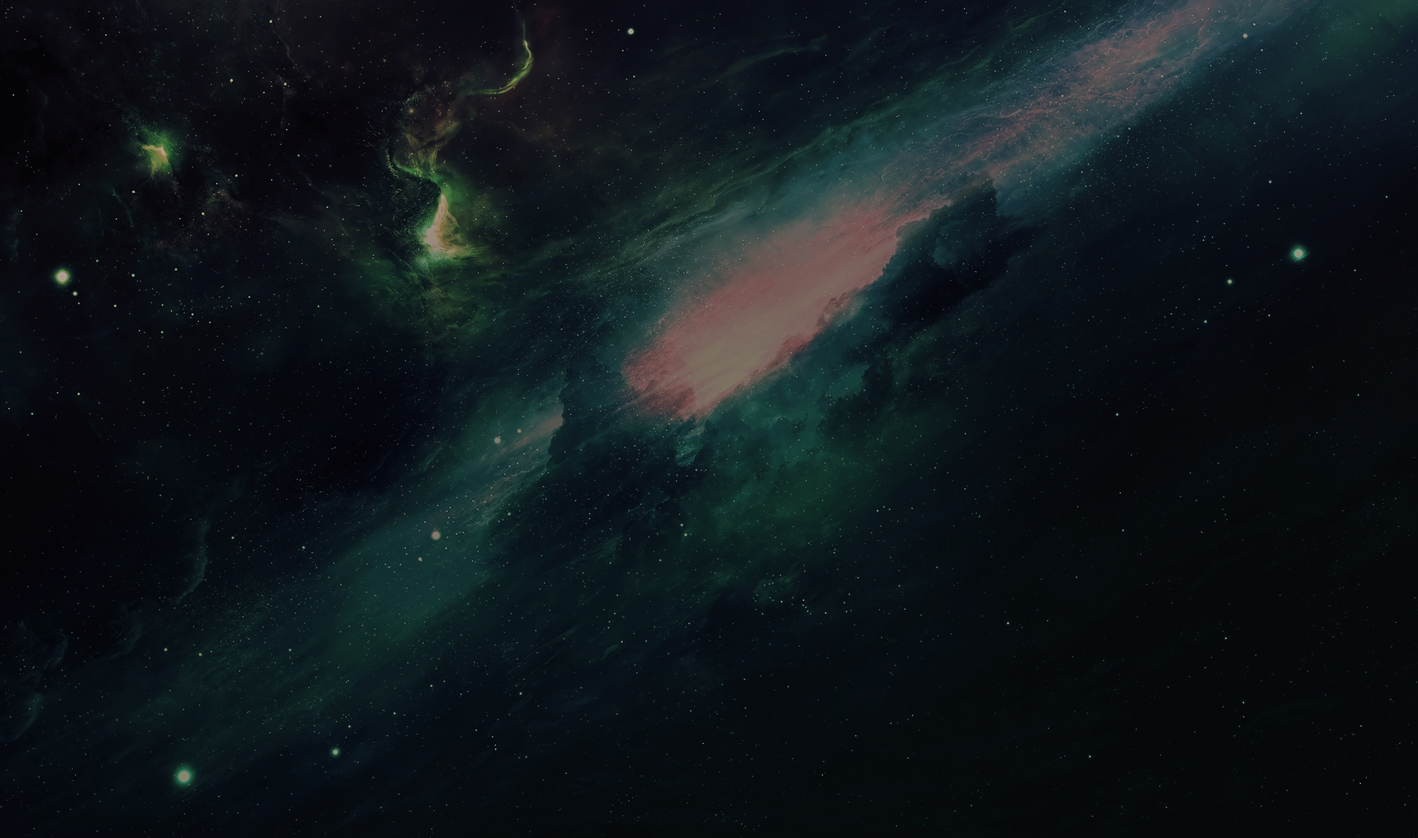
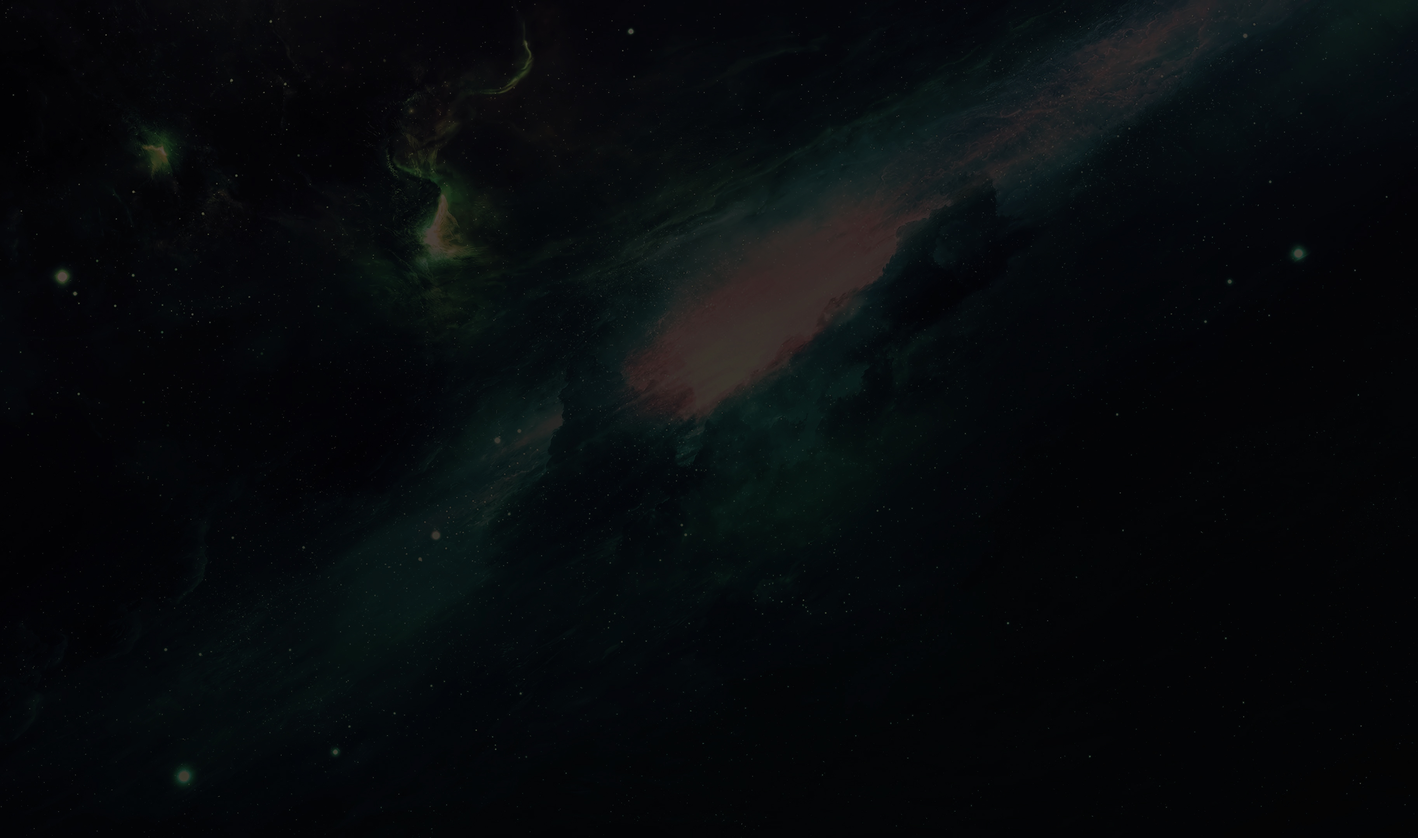
Estilização Página Home
- Adicionada ilustração referente ao herói;

- Estilização de textos e flexbox;

- Ajustes no background;

- Alterando Title Tag;

diff --git a/src/components/Home.vue b/src/components/Home.vue
@@ -3,20 +3,53 @@
   <v-container>
     <Header />
   </v-container>
-  <v-container class="d-flex ga-16">
+
+  <v-container class="d-flex flex-column flex-md-row ga-16">
     <v-container class="d-flex flex-column ga-9">
-      <div class="text-teal-accent-4 text-uppercase text-h4 font-weight-black">A Batalha pelo Mundo Front-End</div>
-      <div style="white-space:;" class="text-white text-justify font-weight-medium">
-        Lucas, o aspirante a herói do Front-End, embarcou em uma jornada desafiadora em busca do conhecimento supremo em Angular, React e Vue.js - os três pilares do reino do desenvolvimento web.<br/>
-        <br/>  
-        Navegando por tutoriais, documentações extensas e projetos práticos, Lucas enfrentou desafios complexos, como integrar componentes reativos e gerenciar estados de forma eficiente. Cada framework representava um teste diferente, mas com sua determinação inabalável, absorveu as nuances de cada um.<br/>
-        <br/>
-        Ao superar os obstáculos e compreender as particularidades dos frameworks, Lucas fortaleceu suas habilidades, preparando-se para se tornar um verdadeiro guardião do Front-End e liderar o mundo digital para uma era de inovação e estabilidade.
-      </div>
+      <h1 class="text-teal-accent-3 text-uppercase text-h3 font-weight-black">A Batalha pelo Mundo Front-End</h1>
+      <p class="text-white text-justify font-weight-medium">
+        Lucas, o aspirante a herói do mundo Front-End, embarcou em uma jornada desafiadora em busca do conhecimento
+        supremo nos frameworks Angular, React e Vue.js - <span class="text-teal-accent-4 font-weight-medium"> os três
+          pilares contidos no reino do desenvolvimento web</span>.<br />
+        <br />
+        Navegando por tutoriais, documentações extensas e projetos práticos, Lucas enfrentou desafios complexos, como
+        integrar componentes reativos e gerenciar estados de forma eficiente. Cada framework representava um teste
+        diferente, mas com sua <span class="text-teal-accent-4 font-weight-medium">determinação inabalável</span>,
+        absorveu as nuances de cada um.<br />
+        <br />
+        Ao superar os obstáculos e compreender as particularidades dos frameworks, Lucas <span
+          class="text-teal-accent-4 font-weight-medium">fortaleceu suas habilidades</span>, preparando-se para se tornar
+        um verdadeiro guardião do Front-End em uma nova era de inovações e estabilidade.
+      </p>
     </v-container>
-    <v-container class="d-flex flex-column w-auto ga-6">
-      <div class="text-teal-accent-4 text-uppercase text-h4 font-weight-black">Foto</div>
+    <v-container class="d-flex flex-column mt-n7" style="width: 520px;">
+      <img src="/src/assets/lucashero.png" alt="Ilustração Lucas Herói" />
     </v-container>
+  </v-container>
+
+  <v-container class="d-flex flex-row justify-center ga-16">
+    <div class="d-flex flex-column my-auto ga-9 ml-4 mt-n1">
+      <h2 class="text-teal-accent-3 text-uppercase text-h5 font-weight-black">Habilidades do Herói</h2>
+      <p class="text-white text-justify font-weight-medium">
+        Um herói desenvolvedor front-end deve possuir habilidades eficazes como:<br />
+
+      </p>
+      <ul class="text-white text-justify font-weight-medium">
+        <li>Inovação e Criatividade (CRE) - Creativity</li>
+        <li>Habilidades Técnicas (SKI) - Skills</li>
+        <li>Criação de Designs Atrativos (DES) - Design Thinking</li>
+        <li>Comunicação e Colaboração (COM) - Communication</li>
+        <li>Adaptabilidade às Mudanças (ADA) - Adaptability</li>
+        <li>Aprendizado Contínuo (LEA) - Learning</li>
+      </ul>
+      <p>Esses atributos combinados capacitam o desenvolvedor front-end a criar interfaces excepcionais e a
+        se destacar na área.</p>
+    </div>
+    <div class="mr-15 w-100">
+      <p class="text-white text-justify font-weight-medium">
+
+      </p>
+    </div>
   </v-container>
 </template>
 

diff --git a/index.html b/index.html
@@ -5,7 +5,7 @@
     <meta charset="UTF-8" />
     <link rel="icon" href="/favicon.ico" />
     <meta name="viewport" content="width=device-width, initial-scale=1.0" />
-    <title>Lucas - Portfolio</title>
+    <title>A Batalha pelo Mundo Front-End</title>
 </head>
 
 <body>

diff --git a/src/App.vue b/src/App.vue
@@ -15,6 +15,6 @@
   background-image: url('src/assets/background.jpg');
   background-size: cover;
   background-position: center;
-  height: 100vh;
+  height: auto;
 }
 </style>
